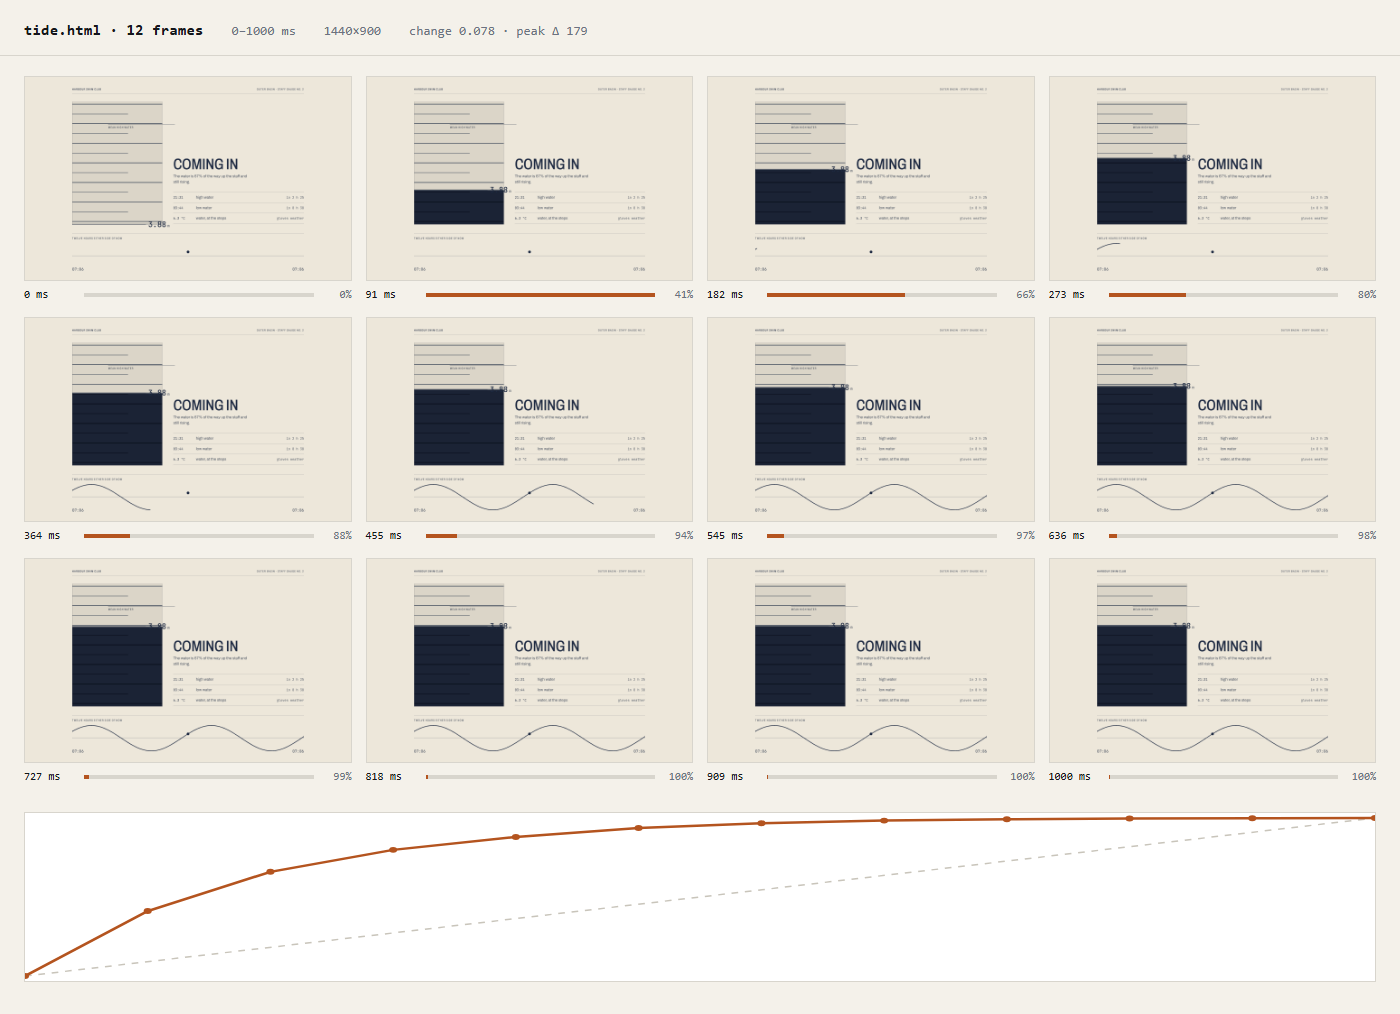
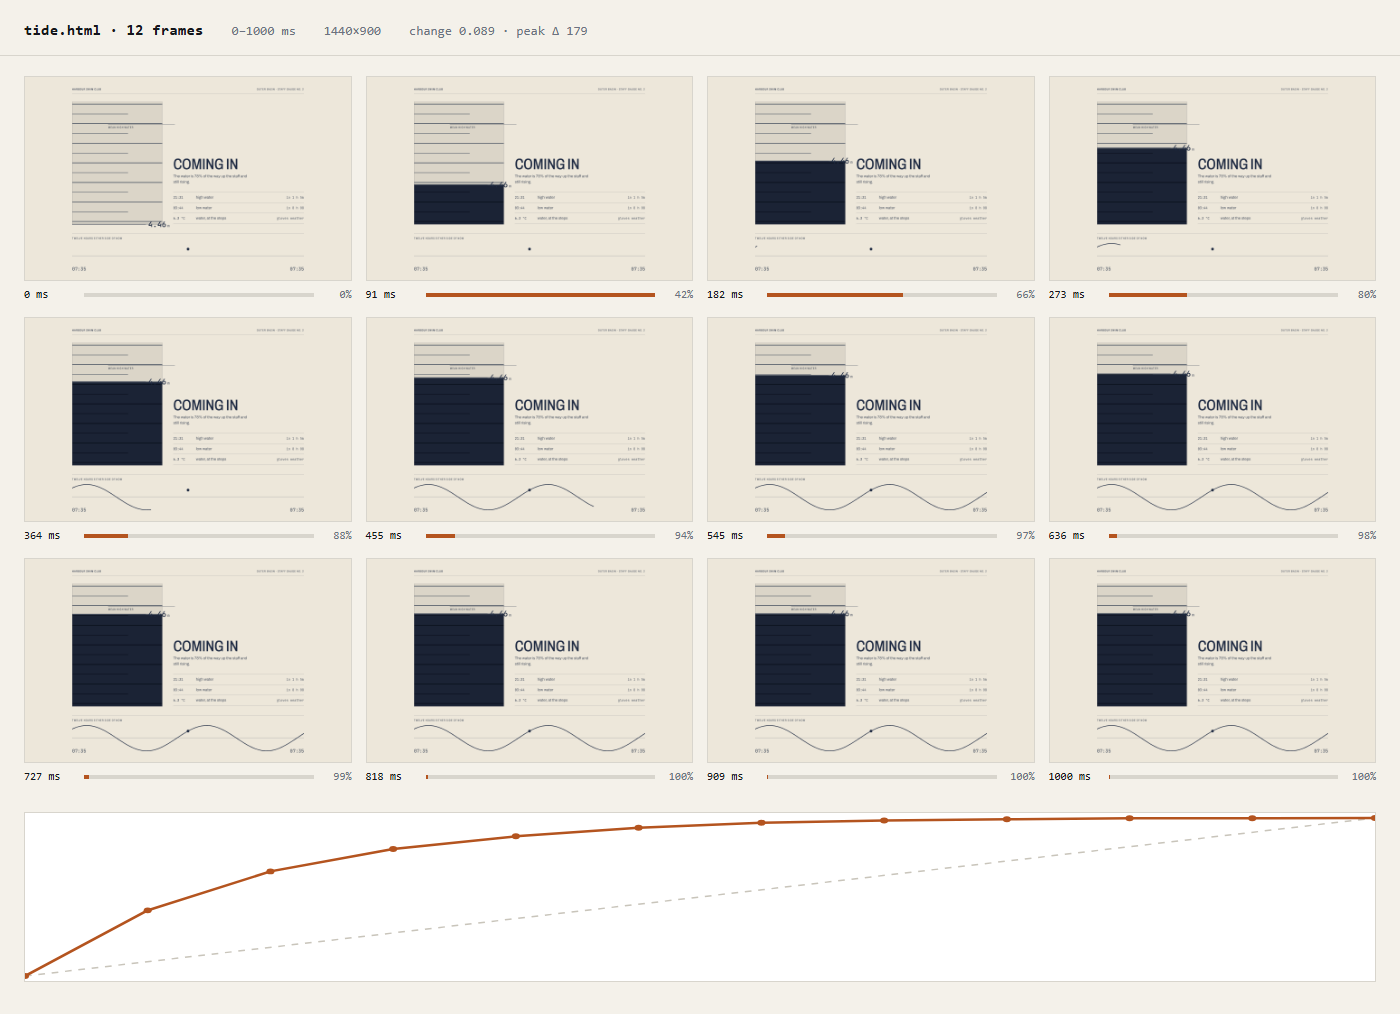
Measure contrast from the pixels, not from the declaration
An adversarial review of the accessibility gate returned fifteen findings,
nearly all false passes — real defects shipping under "no failures". Five shared
one root cause: contrast was derived from the computed-style chain, which
answers what the author declared rather than what the reader sees.

A background image anywhere turned the check off for the whole page and said so
as an info line the summary counted as clean; a 1×1 transparent GIF on <body>,
changing not one rendered pixel, was enough to hide white-on-white text. A scrim
painted over the text was invisible, because the composite walked only up to the
text and dropped everything above it: ink at 1.3:1 under a 93% white veil
measured 9.7:1 and reported nothing. A decorative layer with pointer-events:none
composited the wrong ground, because the composite used hit-testing, which skips
exactly the layer every hero overlay is written with. A blend mode measured the
declared colour, so black rendering white on white computed at 21:1. And a
gradient ground could only ever inform.

Contrast now comes from the pixels: the page is photographed as it is and again
with every glyph transparent, and the difference is the ink on whatever it
actually sits on. Two ratios come out, and both are needed — the declared ink on
the painted ground, which is what the standard defines and the only one fair at
small sizes, and the painted ink on the painted ground, which is what the reader
[…]

diff --git a/skills/design-fields/examples/harbor-swim-club-tide/tide.html b/skills/design-fields/examples/harbor-swim-club-tide/tide.html
@@ -128,7 +128,7 @@
   @keyframes draw { to { stroke-dashoffset: 0 } }
   .curve .mark { fill: var(--ink) }
   .curve .axis { stroke: var(--rule); stroke-width: 1 }
-  .curve text { font: 500 0.62rem/1 'JetBrains Mono', ui-monospace, monospace; fill: var(--faint);
+  .curve text { font: 500 0.75rem/1 'JetBrains Mono', ui-monospace, monospace; fill: var(--faint);
                 font-variant-numeric: tabular-nums }
 
   footer { margin-top: clamp(1.5rem, 4vw, 2.25rem); border-top: 1px solid var(--rule); padding-top: 0.8rem;

diff --git a/CHANGELOG.md b/CHANGELOG.md
@@ -5,6 +5,60 @@ The version is `package.json`'s and is tagged `vX.Y.Z` on `main`. Every install 
 is what a machine gained between two starts. Bump the version and add the entry in the same
 commit — a test holds them together.
 
+## 1.21.0 — 2026-09-02
+
+An adversarial review of the accessibility gate returned fifteen findings, nearly all of them
+false passes — real defects shipping under "no failures". Five shared one root cause: contrast
+was derived from the computed-style chain, which answers "what did the author declare" rather
+than "what does the reader see".
+
+- **A background image anywhere turned the contrast check off for the entire page**, and said
+  so as an `info` line, which the summary counted as clean. A 1×1 transparent GIF on `<body>` —
+  changing not one rendered pixel — was enough to hide white-on-white text from the gate. Any
+  noise texture or subtle gradient did the same.
+
+- **A scrim painted over the text was invisible to it**, because the composite walked only from
+  the bottom of the stack up to the text and dropped everything above. Ink at 1.3:1 under a 93%
+  white veil measured 9.7:1 and reported nothing at all.
+
+- **A decorative layer with `pointer-events: none` composited the wrong ground** — the composite
+  used hit-testing, which by definition skips exactly the layer every hero overlay is written
+  with. Two files differing by 22 characters that change nothing on screen gave opposite
+  verdicts.
+
+- **A blend mode measured the declared colour**, so black text rendering white on white was
+  computed at 21:1. And **a gradient ground could only ever inform**, which is the commonest
+  hero contrast failure there is.
+
+Contrast is now measured from the pixels. The page is photographed twice — once as it is, once
+with every glyph made transparent — and the difference between the two shots is the ink, on
+whatever it turns out to be sitting on. Two ratios come out of that, and both are needed: the
+declared ink on the **painted** ground, which is the ratio the standard defines and the only
+one that is fair at small sizes; and the painted ink on the painted ground, which is what the
+reader sees. When the second collapses to a quarter of the first, something is drawn over the
+text and it says so. Glyphs that change nothing between the two renders are not unmeasurable —
+they are invisible, which is a finding rather than the absence of one.
+
+- **Text in a shadow root, in an `<svg><text>`, directly inside `<body>`, or one character long was
+  never measured at all.** A page built from web components audited as if it were blank, and
+  said "no failures" with a palette line that made it look measured. Badges, counters, close
+  glyphs and single-letter avatars — the runs most likely to be too small or too faint — were
+  skipped by a two-character minimum.
+
+- **An HTTP error page was audited as though it were the page you meant.** A typo, a stale
+  route or a dev server that had moved on gave "No failures" and exit 0. And a page whose load
+  never completed exited 1 — the code for "this page has accessibility failures" — so a caller
+  could not tell a bad page from an audit that never happened.
+
+- **`outline: 2px solid transparent` counted as a visible focus state.** It is a routine reset
+  idiom, and two pages equally unusable by keyboard gave opposite verdicts. A flag placed
+  before the path also swallowed it, so `page-audit --json page.html` handed a JSON consumer
+  the usage banner.
+
+Text explicitly hidden from assistive technology is now exempt from contrast: a submerged gauge
+numeral is meant to be illegible, and the reading it stands for is carried in text that is not
+hidden. The tide example gained that exemption and lost a pair of 9.9px axis labels the widened
+collection caught — a real defect in it that nothing had ever measured.
 ## 1.20.0 — 2026-09-02
 
 Found by doing the thing this package promises and had not been re-tested in eight releases:
